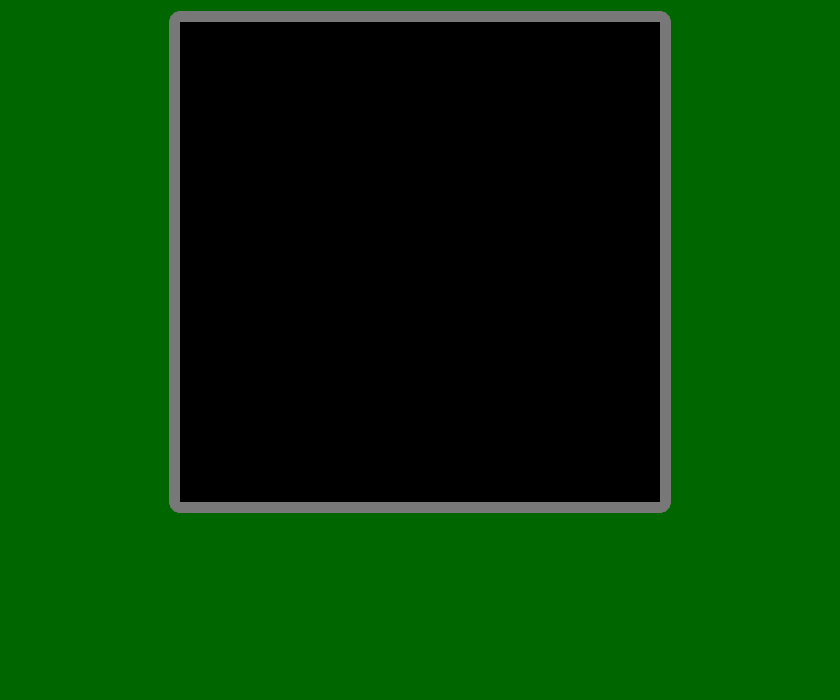
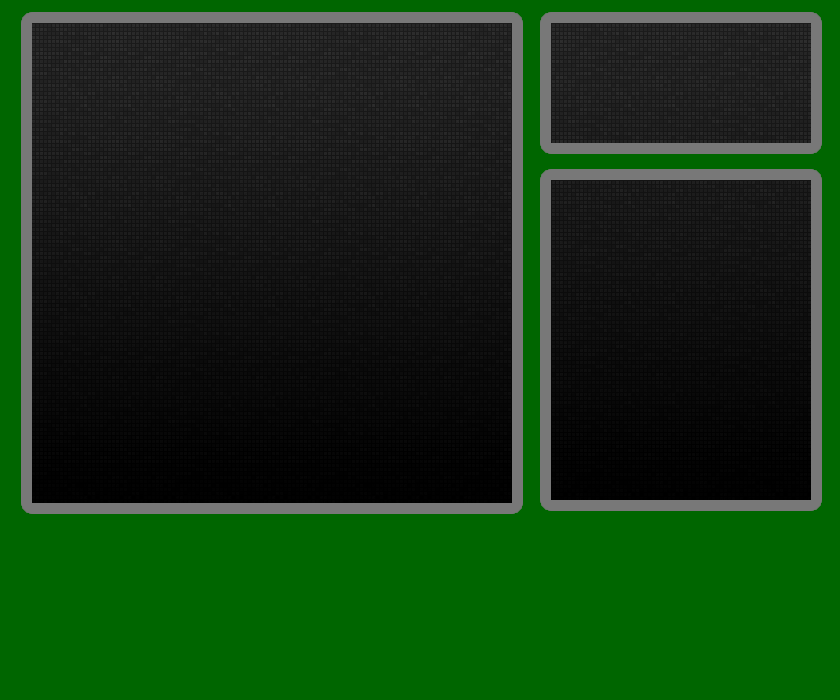
Added level animations and types

diff --git a/workspace/AwesomeRogue/src/com/nightfall/awesomerogue/GameFrame.java b/workspace/AwesomeRogue/src/com/nightfall/awesomerogue/GameFrame.java
@@ -1,7 +1,12 @@
 package com.nightfall.awesomerogue;
+import java.awt.Graphics2D;
 import java.awt.event.WindowEvent;
 import java.awt.event.WindowListener;
+import java.awt.image.BufferedImage;
+import java.io.File;
+import java.io.IOException;
 
+import javax.imageio.ImageIO;
 import javax.swing.JFrame;
 
 
@@ -55,4 +60,62 @@ public class GameFrame extends JFrame implements WindowListener {
 
 	public void windowOpened(WindowEvent e) { }
 	/* End window functions */
+	
+	public static BufferedImage[] loadAnimation(String filename, int imWidth) {
+		BufferedImage stripIm;
+		BufferedImage[] strip;
+
+		try {
+			stripIm = ImageIO.read(new File("img/"+filename));
+			
+			int height = stripIm.getHeight();
+			
+			int number = stripIm.getWidth() / imWidth;
+			
+			strip = new BufferedImage[number];
+			
+			for(int i=0; i < number; i ++) {
+				strip[i] = new BufferedImage(imWidth, height, BufferedImage.TYPE_INT_ARGB);
+				
+				Graphics2D stripGC = strip[i].createGraphics();
+				stripGC.drawImage(stripIm, 0, 0, imWidth, height, i*imWidth, 0, (i*imWidth)+imWidth, height, null);
+			}
+			
+			return strip;
+		} catch (IOException e) {
+			// TODO Auto-generated catch block
+			e.printStackTrace();
+			
+			return null;
+		}
+	}
+	
+	public static BufferedImage[] loadVertAnimation(String filename, int imHeight) {
+		BufferedImage stripIm;
+		BufferedImage[] strip;
+
+		try {
+			stripIm = ImageIO.read(new File("img/"+filename));
+			
+			int width = stripIm.getWidth();
+			
+			int number = stripIm.getHeight() / imHeight;
+			
+			strip = new BufferedImage[number];
+			
+			for(int i=0; i < number; i ++) {
+				strip[i] = new BufferedImage(width, imHeight, BufferedImage.TYPE_INT_ARGB);
+				
+				Graphics2D stripGC = strip[i].createGraphics();
+				stripGC.drawImage(stripIm, 0, 0, width, imHeight, 0, imHeight*i, width, (i*imHeight)+imHeight, null);
+			}
+			
+			return strip;
+		} catch (IOException e) {
+			// TODO Auto-generated catch block
+			e.printStackTrace();
+			
+			return null;
+		}
+	}
 }

diff --git a/workspace/AwesomeRogue/src/com/nightfall/awesomerogue/MetaGameState.java b/workspace/AwesomeRogue/src/com/nightfall/awesomerogue/MetaGameState.java
@@ -38,6 +38,7 @@ public class MetaGameState extends GameState {
 	private ImageSFX imgSFX;
 
 	private BufferedImage[] guiBG;
+	private LevelAnim[] levelAnim;
 
 	private BufferedImage[] tileImages;
 
@@ -49,11 +50,19 @@ public class MetaGameState extends GameState {
 		imgSFX = new ImageSFX();
 
 		tileImages = new BufferedImage[10];
-		tileImages[0] = ImageIO.read(new File("img/metagame/CaveMetaTile.png"));
-		tileImages[1] = ImageIO.read(new File("img/metagame/RoomMetaTile.png"));
+		tileImages[0] = ImageIO.read(new File("img/metagame/IntroMetaTile.png"));
+		tileImages[1] = ImageIO.read(new File("img/metagame/WizardMetaTile.png"));
+		tileImages[2] = ImageIO.read(new File("img/metagame/RoomMetaTile.png"));
+		tileImages[3] = ImageIO.read(new File("img/metagame/CaveMetaTile.png"));
 
 		guiBG = new BufferedImage[1];
 		guiBG[0] = ImageIO.read(new File("img/metagame/guiBG.png"));
+		
+		levelAnim = new LevelAnim[4];
+		levelAnim[0] = new LevelAnim("Intro", true);
+		levelAnim[1] = new LevelAnim("Wizard", false);
+		levelAnim[2] = new LevelAnim("Room", true);
+		levelAnim[3] = new LevelAnim("Cave", false);
 
 		charX = 0;
 		charY = 0;
@@ -69,6 +78,10 @@ public class MetaGameState extends GameState {
 		
 		map = LevelGenerator.makeMetaGame(META_MAP_WIDTH, META_MAP_HEIGHT);
 		map[0][0].visible = true;
+		map[0][0].type = 0;
+		
+		map[5][5].visible = true;
+		map[5][5].type = 1;
 		if(!map[charX][charY].walls[1]) {
 			map[charX+1][charY].visible = true;
 		}
@@ -87,6 +100,8 @@ public class MetaGameState extends GameState {
 		g2.setColor(Color.black);
 		
 		g2.drawImage(guiBG[0], 0, 0, null);
+		
+		g2.drawImage(levelAnim[ map[charX][charY].type ].next(), LEVEL_ANIM_OFFSET_X, LEVEL_ANIM_OFFSET_Y, null);
 		//imgSFX.drawResizedImage(g2, guiBG, 0, 0, GamePanel.PWIDTH, GamePanel.PHEIGHT);
 
 		// Draw the tiles of the map.

diff --git a/workspace/AwesomeRogue/src/com/nightfall/awesomerogue/LevelAnim.java b/workspace/AwesomeRogue/src/com/nightfall/awesomerogue/LevelAnim.java
@@ -1,0 +1,36 @@
+package com.nightfall.awesomerogue;
+
+import java.awt.image.BufferedImage;
+
+public class LevelAnim {
+	public static final int FRAMELEN = 15;
+	
+	private BufferedImage[] imgList;
+	private int index;
+	private boolean willReverse;
+	
+	/** Public constructor
+	 * 
+	 * @param string - The level name
+	 * @param reverse - Whether or not to reverse when drawing (as opposed to cycle)
+	 */
+	public LevelAnim(String string, boolean reverse) {
+		index = 0;
+		willReverse = reverse;
+		
+		imgList = GameFrame.loadVertAnimation("metagame/"+string+"MetaAnim.png", 120);
+	}
+	
+	public BufferedImage next() {
+		// Decide what image to send back before incrementing the index
+		BufferedImage img = (index <= 0) ? imgList[(index/FRAMELEN)*-1] : imgList[(index/FRAMELEN)];
+		
+		index ++;
+		if(index >= imgList.length*FRAMELEN) {
+			if(willReverse) index = imgList.length*-1*FRAMELEN + 1; // Make the index negative if we're reversing
+			else index = 0;									// Otherwise start over at 0
+		}
+		
+		return img;
+	}
+}

diff --git a/workspace/AwesomeRogue/src/com/nightfall/awesomerogue/GamePanel.java b/workspace/AwesomeRogue/src/com/nightfall/awesomerogue/GamePanel.java
@@ -75,7 +75,7 @@ public class GamePanel extends JPanel implements Runnable {
 			// DO WITH ANY OF THESE CLASSES IN ORDER FOR THE BASIC ENGINE TO WORK. ALL OF IT.
 			// *******************************************************************************
 			// *******************************************************************************
-			currentGameState = new InGameState(this);
+			currentGameState = new MetaGameState(this);
 		} catch (FontFormatException e) {
 			e.printStackTrace();
 		} catch (IOException e) {

diff --git a/workspace/AwesomeRogue/src/com/nightfall/awesomerogue/LevelGenerator.java b/workspace/AwesomeRogue/src/com/nightfall/awesomerogue/LevelGenerator.java
@@ -374,7 +374,7 @@ public class LevelGenerator {
             	int m = maze[i][j];
             	//System.out.println("At "+i+","+j+" - N:"+((m & N) == N) + ",E:" + ((m & E) == E)+ ",S:" + ((m & S) == S)+ ",W:" +( (m & W) == W));
             	boolean[] walls = { (m & N) == N, (m & E) == E, (m & S) == S, (m & W) == W };
-            	map[i][j] = new LevelTile(rand.nextInt(2), walls);
+            	map[i][j] = new LevelTile(rand.nextInt(2)+2, walls);
             }
         }
         
